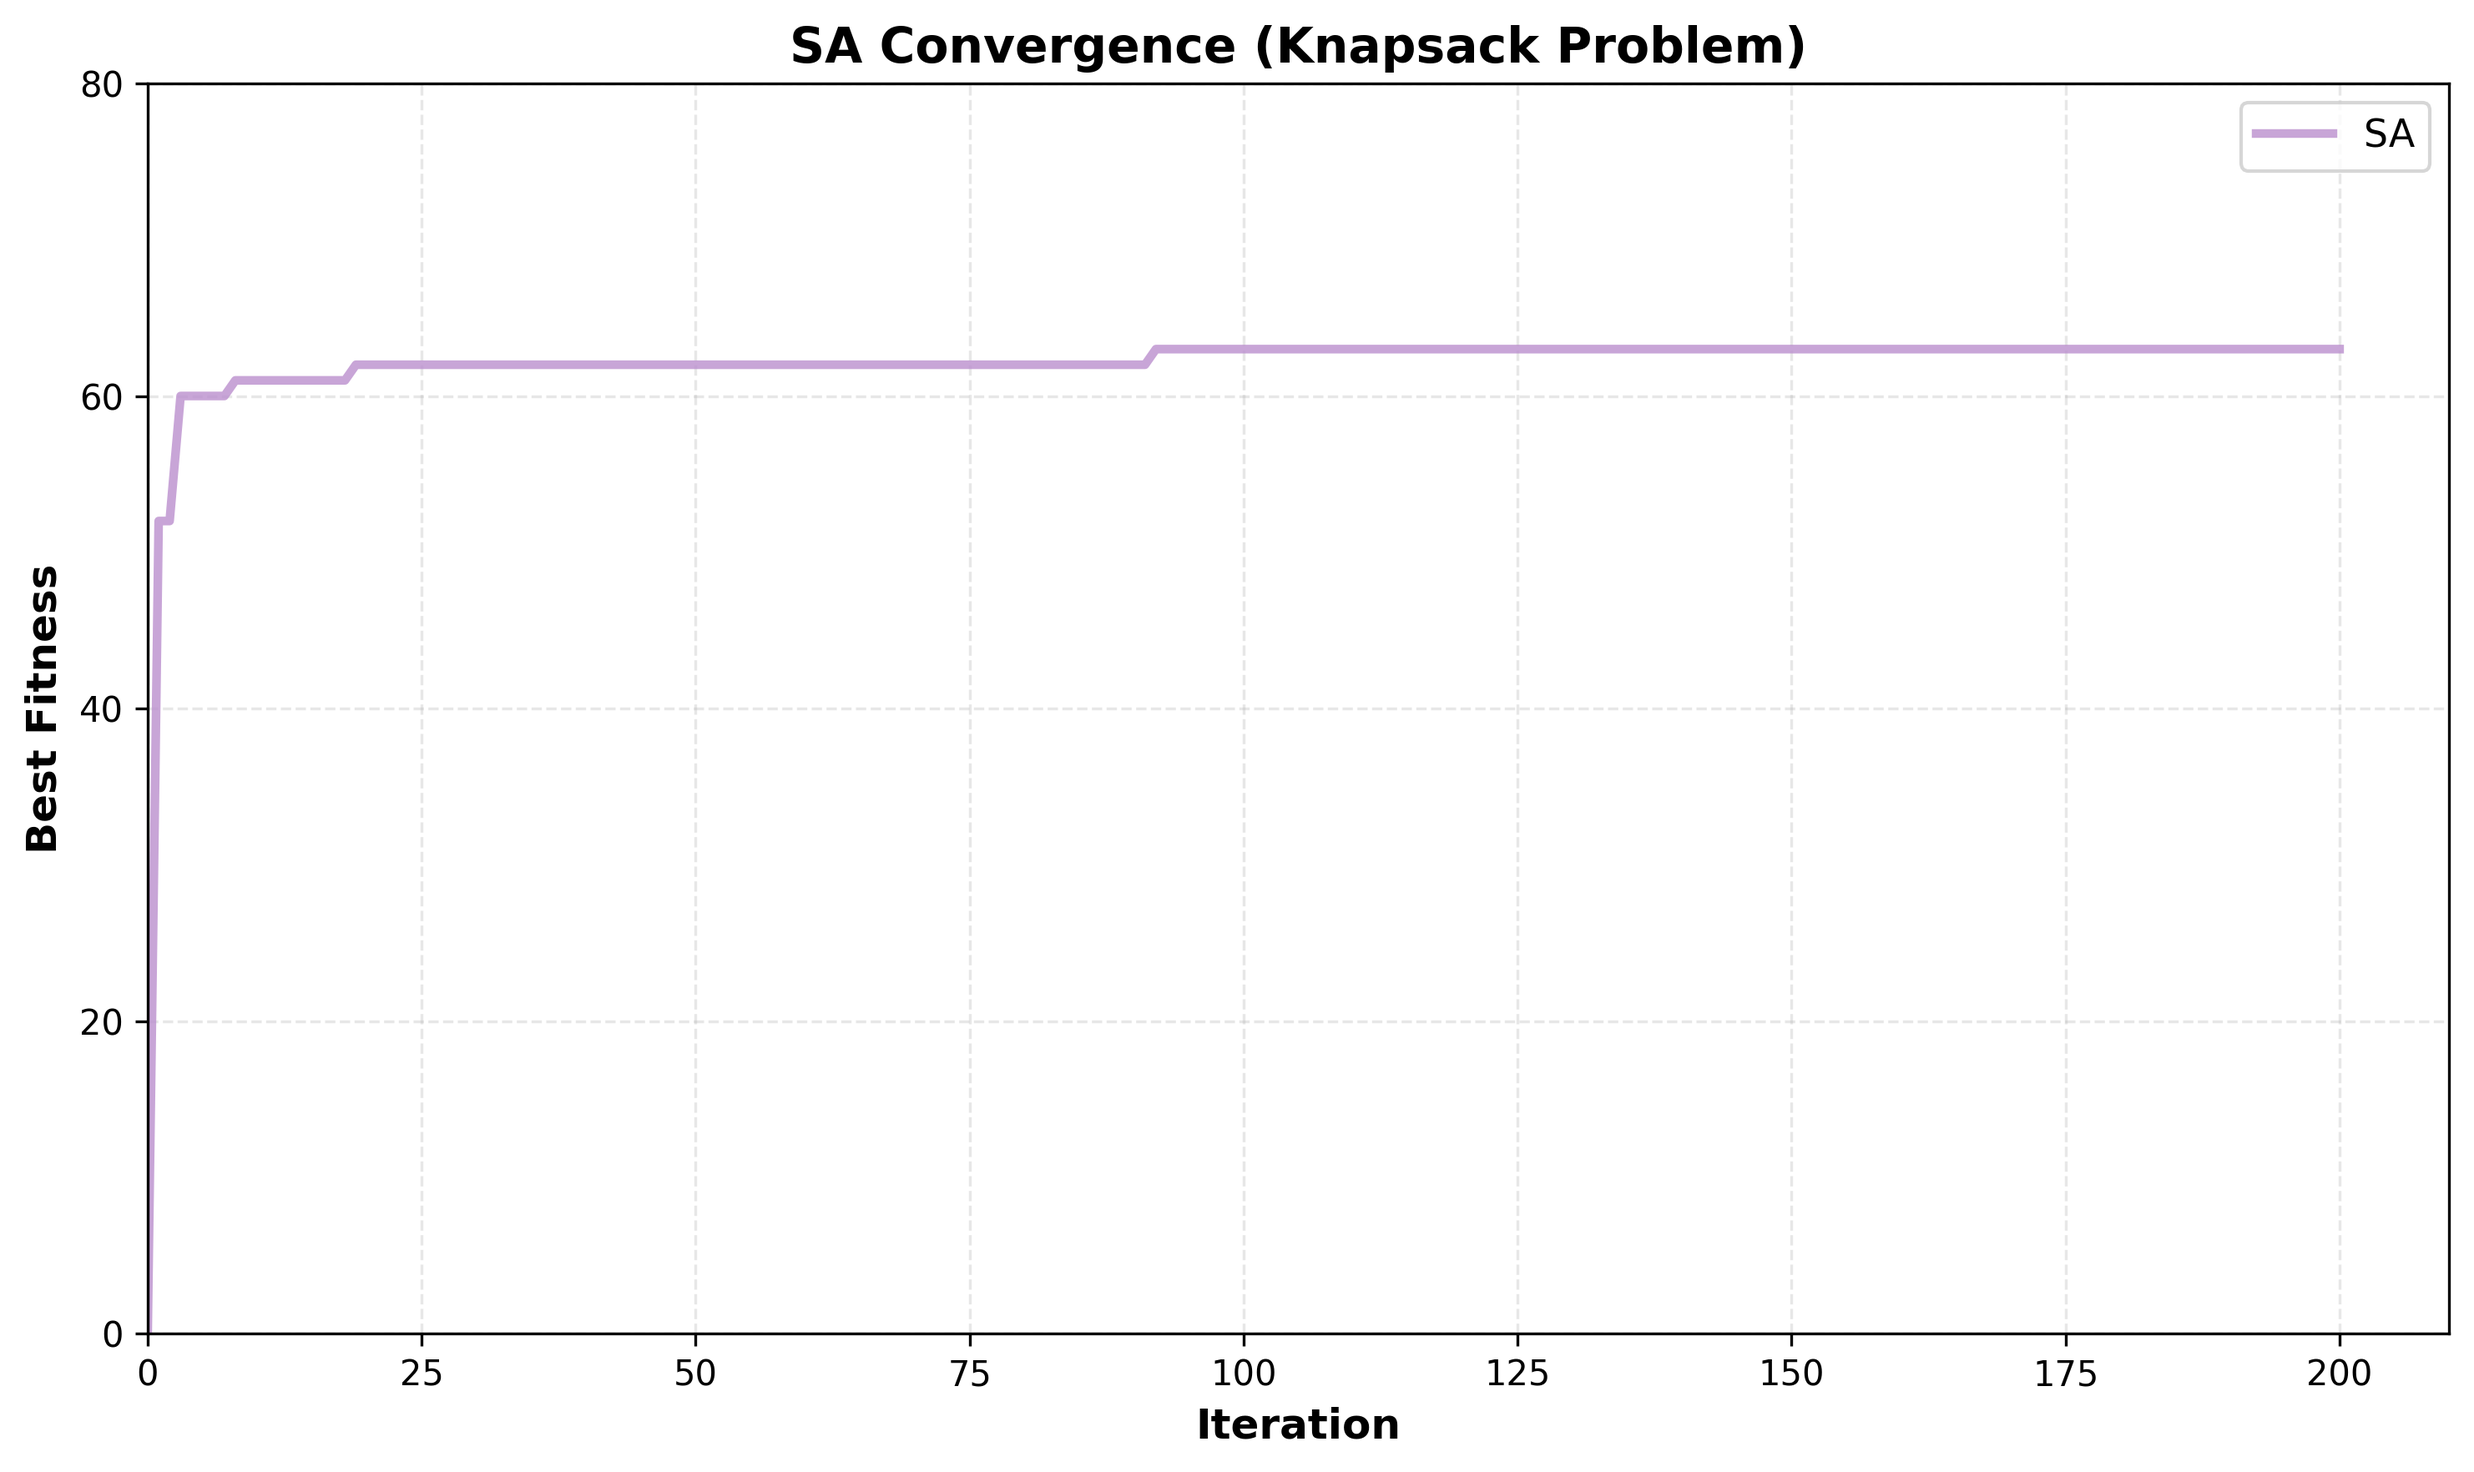
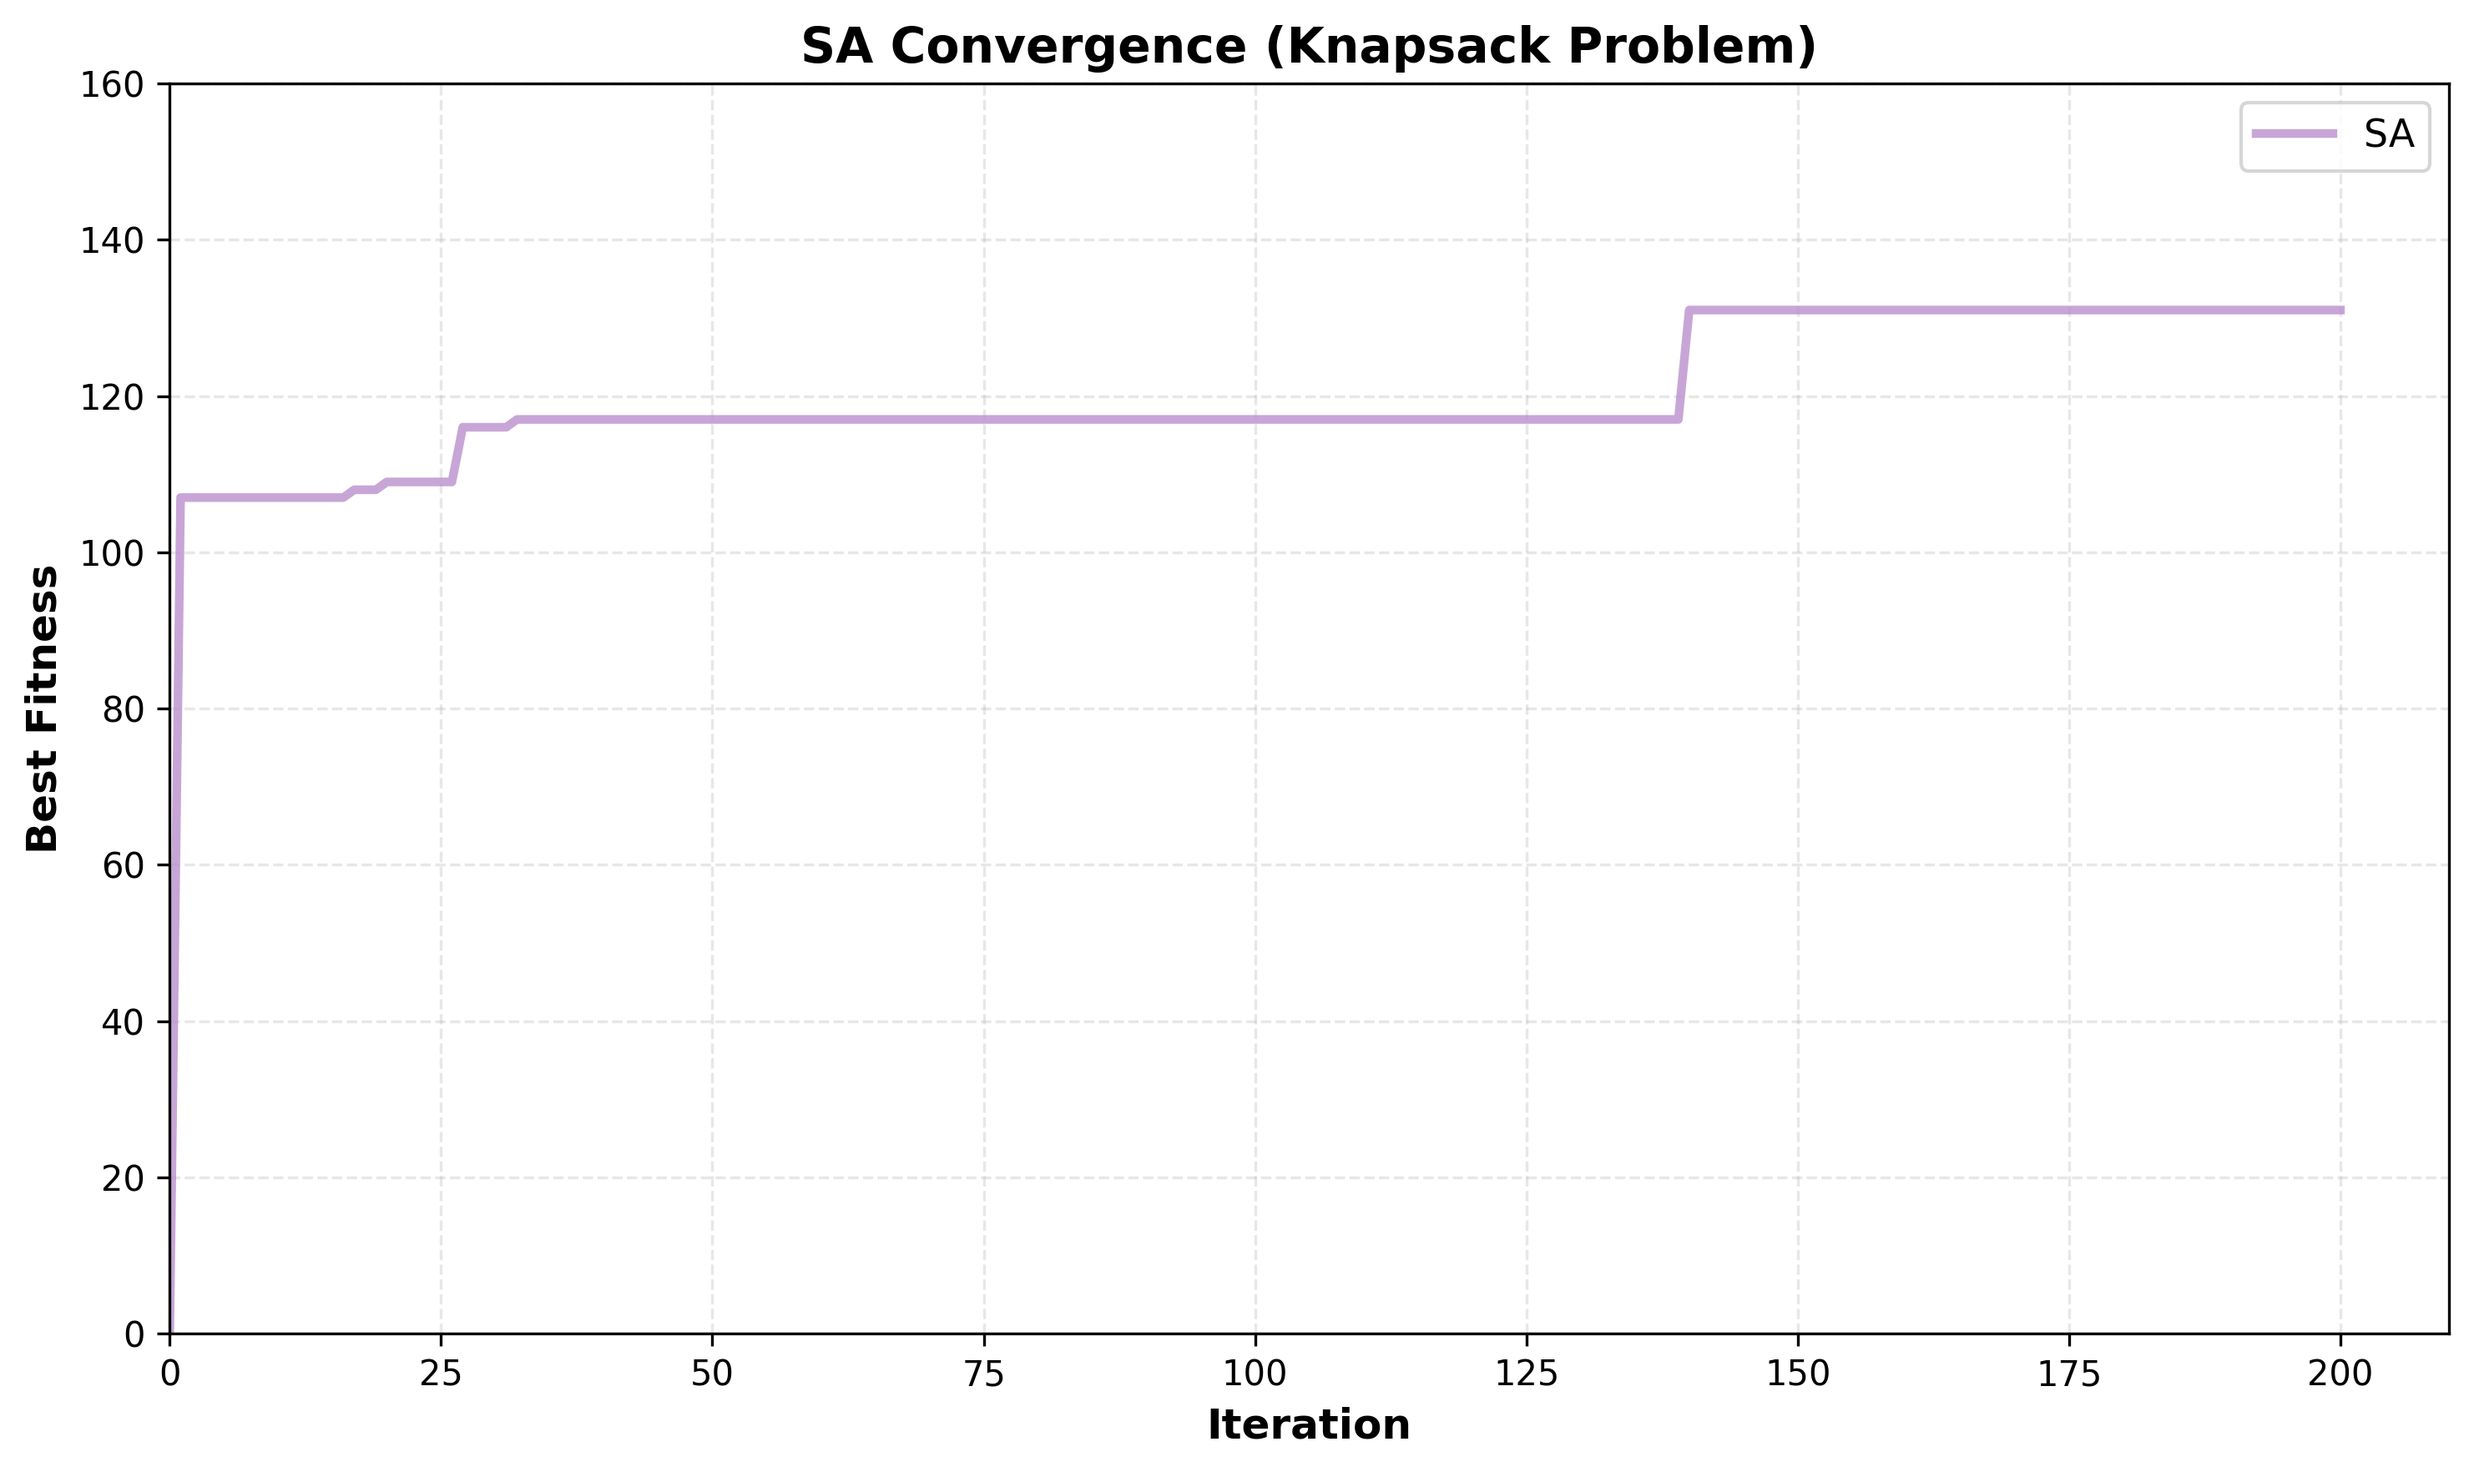
[Fix] Refactor code and remove early stopping in hill climbing

diff --git a/src/algorithms/traditional_algorithms/HC.py b/src/algorithms/traditional_algorithms/HC.py
@@ -28,6 +28,20 @@ class HillClimbing:
         self.best_fitness = None
         self.history = []
 
+    def generate_neighbors(self, solution):
+        step = (self.upper_bound - self.lower_bound) * 0.1
+        perturbations = np.random.uniform(
+            -step,
+            step,
+            size=(self.n_neighbors, self.dim)
+        )
+        neighbors = np.clip(
+            solution + perturbations,
+            self.lower_bound,
+            self.upper_bound
+        )
+        return neighbors
+
     def run(self):
         if self.verbose:
             print("\n===== Start HC =====")
@@ -40,19 +54,9 @@ class HillClimbing:
         self.best_solution = current_solution.copy()
         self.best_fitness = current_fitness
         self.history = [current_fitness]
-        step = (self.upper_bound - self.lower_bound) * 0.1
 
         for iteration in range(self.max_iter):
-            perturbations = np.random.uniform(
-                -step,
-                step,
-                size=(self.n_neighbors, self.dim)
-            )
-            neighbors = np.clip(
-                current_solution + perturbations,
-                self.lower_bound,
-                self.upper_bound
-            )
+            neighbors = self.generate_neighbors(current_solution)
             fitness_values = np.apply_along_axis(self.fitness_func, 1, neighbors)
             best_idx = np.argmin(fitness_values)
             best_neighbor = neighbors[best_idx]
@@ -63,8 +67,6 @@ class HillClimbing:
                 current_fitness = best_neighbor_fitness
                 self.best_solution = current_solution.copy()
                 self.best_fitness = current_fitness
-            else:
-                break
 
             self.history.append(self.best_fitness)
             if self.verbose and (iteration % 10 == 0 or iteration == self.max_iter - 1):
@@ -111,16 +113,23 @@ class HillClimbingKnapsack:
     def is_valid(self, solution):
         return np.sum(solution * self.weights) <= self.capacity
 
+    def repair(self, sol):
+        while not self.is_valid(sol):
+            ones = np.where(sol == 1)[0]
+            if len(ones) == 0:
+                break
+            sol[np.random.choice(ones)] = 0
+        return sol
+
     def generate_neighbors(self, solution):
         neighbors = []
         for _ in range(self.n_neighbors):
-            while True:
-                neighbor = solution.copy()
-                i = np.random.randint(0, self.dim)
-                neighbor[i] = 1 - neighbor[i]
-                if self.is_valid(neighbor):
-                    neighbors.append(neighbor)
-                    break
+            neighbor = solution.copy()
+            i = np.random.randint(0, self.dim)
+            neighbor[i] = 1 - neighbor[i]
+            if not self.is_valid(neighbor):
+                neighbor = self.repair(neighbor)
+            neighbors.append(neighbor)
         return neighbors
 
     def run(self):
@@ -145,8 +154,6 @@ class HillClimbingKnapsack:
             if best_neighbor_fitness > self.best_fitness:
                 self.best_solution = best_neighbor.copy()
                 self.best_fitness = best_neighbor_fitness
-            else:
-                break
 
             self.history.append(self.best_fitness)
             if self.verbose and (iteration % 10 == 0 or iteration == self.max_iter - 1):

diff --git a/src/visualization/visualize_experiments.py b/src/visualization/visualize_experiments.py
@@ -194,7 +194,7 @@ def plot_convergence_individual(results_dict, problem_type='sphere', save_dir='s
         
         # Use nice tick step to get clean, readable ticks (max 5-6 ticks)
         data_range = y_max - y_min
-        tick_step = get_nice_tick_step(data_range, max_ticks=5)
+        tick_step = get_nice_tick_step(data_range, max_ticks=10)
         y_min_tick = np.floor(y_min / tick_step) * tick_step
         y_max_tick = np.ceil(y_max / tick_step) * tick_step
         y_ticks = np.arange(y_min_tick, y_max_tick + tick_step, tick_step)
@@ -241,7 +241,7 @@ def plot_convergence_combined(results_dict, problem_type='sphere', save_path=Non
     
     # Use nice tick step to get clean, readable ticks (max 5-6 ticks)
     data_range = y_max - y_min
-    tick_step = get_nice_tick_step(data_range, max_ticks=5)
+    tick_step = get_nice_tick_step(data_range, max_ticks=10)
     y_min_tick = np.floor(y_min / tick_step) * tick_step
     y_max_tick = np.ceil(y_max / tick_step) * tick_step
     y_ticks = np.arange(y_min_tick, y_max_tick + tick_step, tick_step)
@@ -284,7 +284,7 @@ def plot_runtime_bar(results_dict, problem_type='sphere', save_path=None):
     # 1. Number of ticks would be reasonable (<= 15) with normal axis, OR
     # 2. There's a truly large gap (> 30% of range) that creates visual issues
     gap_percentage = (max_gap / data_range * 100) if data_range > 0 else 0
-    use_broken_axis = (num_ticks > 15) or (gap_percentage > 30 and data_range > 0.1)
+    use_broken_axis = (num_ticks > 50) or (gap_percentage > 60 and data_range > 0.1)
     
     if use_broken_axis:
         fig, (ax1, ax2) = plt.subplots(
@@ -449,7 +449,7 @@ def plot_memory_bar(results_dict, problem_type='sphere', save_path=None):
     # 1. Number of ticks would be unreasonable (> 15) with normal axis, OR
     # 2. There's a truly large gap (> 30% of range) that creates visual issues
     gap_percentage = (max_gap / data_range * 100) if data_range > 0 else 0
-    use_broken_axis = (num_ticks > 20) or (gap_percentage > 30 and data_range > 5)
+    use_broken_axis = (num_ticks > 50) or (gap_percentage > 60 and data_range > 5)
     
     if use_broken_axis:
         fig, (ax1, ax2) = plt.subplots(

diff --git a/src/algorithms/traditional_algorithms/GA.py b/src/algorithms/traditional_algorithms/GA.py
@@ -125,8 +125,6 @@ class GeneticAlgorithmKnapsack:
         population_size=20,
         max_iter=1000,
         elitism=2,
-        alpha=0.6,
-        sigma=0.1,
         mutation_rate=0.1,
         crossover_rate=0.8,
         seed=None,
@@ -142,8 +140,6 @@ class GeneticAlgorithmKnapsack:
         self.population_size = population_size
         self.max_iter = max_iter
         self.elitism = elitism
-        self.alpha = alpha
-        self.sigma = sigma
         self.mutation_rate = mutation_rate
         self.crossover_rate = crossover_rate
         self.verbose = verbose

diff --git a/src/problem/discrete/knapsack.py b/src/problem/discrete/knapsack.py
@@ -1,6 +1,6 @@
 import numpy as np
 
-WEIGHTS = np.array([12, 7, 11, 8, 9, 15, 6, 10, 14, 13])
-VALUES  = np.array([15, 9, 12, 10, 11, 18, 8, 13, 17, 16])
+WEIGHTS = np.array([4, 3, 8, 12, 9, 4, 13, 15, 7, 11, 5, 10, 6, 9, 14, 4, 5, 3, 16, 13])
+VALUES  = np.array([10, 8, 15, 20, 18, 12, 25, 30, 16, 22, 14, 19, 17, 21, 24, 11, 13, 9 , 28, 26])
 MAX_WEIGHT = 50
 N_ITEMS = len(WEIGHTS)
